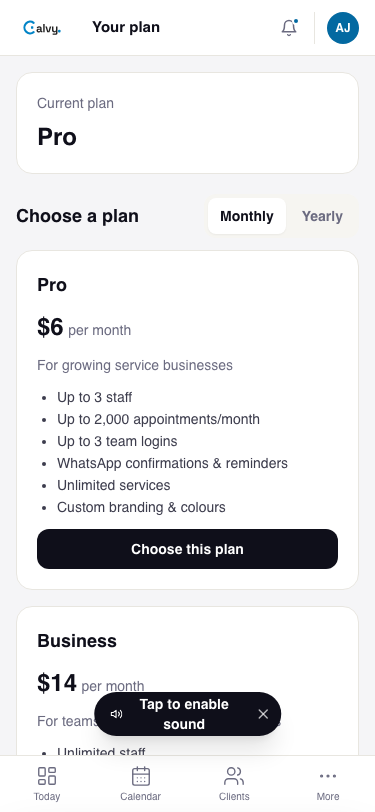
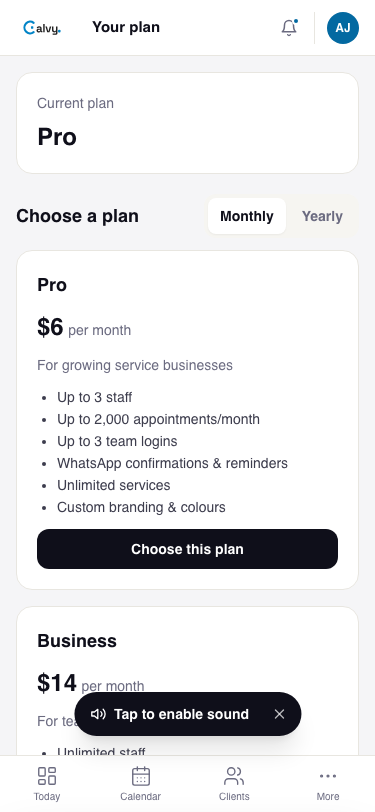
Step 36c: shell spec in the CI smoke job (375 + 1440, CI's own Postgres), test:shell for 4 widths, /admin/2fa phone check, chip one-line assertion

Changed region(s): [[0.176, 0.8313, 0.704, 0.9236], [0.704, 0.8313, 0.8213, 0.9236]]

diff --git a/tests/e2e/shell.spec.ts b/tests/e2e/shell.spec.ts
@@ -16,7 +16,8 @@ import { signInAsFixtureAdmin } from "./helpers/admin";
 // The minted admin cookie must never end up in an artefact: no trace (it records requests and cookies), no video, no automatic screenshots.
 test.use({ trace: "off", video: "off", screenshot: "off" });
 
-const WIDTHS = [375, 768, 1024, 1440] as const;
+// CI runs the quick subset (375 and 1440). `npm run test:shell` sets SHELL_FULL=1 for all four widths.
+const WIDTHS: readonly number[] = process.env.SHELL_FULL === "1" ? [375, 768, 1024, 1440] : [375, 1440];
 const ADMIN_ROUTES = [
   "/admin", "/admin/businesses", "/admin/businesses/new", "/admin/plans", "/admin/revenue", "/admin/billing", "/admin/offers", "/admin/coupons", "/admin/customers",
   "/admin/referrals", "/admin/rewards", "/admin/notifications", "/admin/notifications/log", "/admin/whatsapp-review", "/admin/blog", "/admin/support", "/admin/audit", "/admin/settings",
@@ -90,6 +91,37 @@ test("admin: the minted session cookie alone gets nobody in; the live admin-sess
   });
 });
 
+test("admin: /admin/2fa (its own layout) fits a phone and its code input is usable", async ({ page, context, baseURL }) => {
+  await withAdminFixture(async (fixture: AdminFixture) => {
+    await signInAsFixtureAdmin(context, baseURL ?? "http://localhost:3000", fixture);
+    await fixture.markEnrolled(); // an enrolled admin sees the "enter your code" form (the real day-to-day screen)
+    await fixture.endSession();   // cookies without a live row: the app shows the authenticator page
+    await page.setViewportSize({ width: 375, height: 667 });
+    await page.goto("/admin/2fa", { waitUntil: "load" });
+    const field = page.locator("#totp");
+    await expect(field).toBeVisible();
+    const m = await page.evaluate(() => ({ vw: innerWidth, sw: document.documentElement.scrollWidth, bw: document.body.scrollWidth }));
+    expect(m.sw, "2fa page scrolls sideways").toBeLessThanOrEqual(m.vw + 1);
+    expect(m.bw).toBeLessThanOrEqual(m.vw + 1);
+    await expect(page.locator("h1")).toBeVisible();
+    const submit = page.getByRole("button", { name: /^(Sign in|Start setup|Confirm and sign in)$/ });
+    await expect(submit).toBeVisible();
+    const box = await submit.boundingBox();
+    expect(box && box.height >= 40, "submit button is a phone-sized target").toBe(true);
+    expect(box && box.x >= 0 && box.x + box.width <= m.vw, "submit button inside the viewport").toBe(true);
+    {
+      await expect(field).toHaveAttribute("inputmode", "numeric");
+      await expect(field).toHaveAttribute("autocomplete", "one-time-code");
+      const fb = await field.boundingBox();
+      expect(fb && fb.height >= 40, "code input is a phone-sized target").toBe(true);
+      expect(fb && fb.x >= 0 && fb.x + fb.width <= m.vw, "code input inside the viewport").toBe(true);
+      await field.fill("123456");
+      await expect(field).toHaveValue("123456");
+    }
+    if (SHOTS) await page.screenshot({ path: "docs/audit/step-36c/admin_2fa-375.png" });
+  });
+});
+
 test("admin: the menu is a drawer under 1024px (backdrop, Escape, focus kept inside and returned)", async ({ page, context, baseURL }) => {
   await withAdminFixture(async (fixture: AdminFixture) => {
     await signInAsFixtureAdmin(context, baseURL ?? "http://localhost:3000", fixture);
@@ -144,6 +176,8 @@ test("dashboard: the sound chip clears the bottom tabs, is dismissible per devic
   const chipBox = (await chip.boundingBox())!;
   const nav = (await page.locator('nav[aria-label], nav').filter({ hasText: "Today" }).last().boundingBox())!;
   expect(chipBox.y + chipBox.height, "the chip overlaps the bottom tabs").toBeLessThanOrEqual(nav.y + 1);
+  expect(chipBox.height, "the chip text wraps onto a second line").toBeLessThanOrEqual(52);
+  if (SHOTS) await page.screenshot({ path: "docs/audit/step-36c/dashboard-sound-chip-375.png" });
   expect(chipBox.x).toBeGreaterThanOrEqual(0);
   expect(chipBox.x + chipBox.width).toBeLessThanOrEqual(375);
   await page.getByTestId("dismiss-sound-chip").click();

diff --git a/scripts/e2e-admin-fixture.ts b/scripts/e2e-admin-fixture.ts
@@ -56,6 +56,8 @@ export interface AdminFixture {
   adminToken: string;
   /** Delete the admin session row only (the user stays): what an expired or revoked session looks like to the app. For the "no row, no access" test. */
   endSession: () => Promise<void>;
+  /** Show the "enter your code" form on /admin/2fa (as for an enrolled admin) without any real authenticator: a random placeholder secret nobody can use to pass a code check from outside. The user row is deleted with the fixture. */
+  markEnrolled: () => Promise<void>;
   wipe: () => Promise<{ users: number; sessions: number; auditLeft: number }>;
 }
 
@@ -71,7 +73,8 @@ export async function createAdminFixture(prisma: PrismaClient): Promise<AdminFix
   // The session is cut off after 15 minutes whatever happens (a stuck run included).
   const timer = setTimeout(() => { void wipeAdminFixture(prisma).catch(() => undefined); }, MAX_SESSION_MS);
   timer.unref?.();
-  return { userId: user.id, adminToken, endSession: async () => { await prisma.adminSession.deleteMany({ where: { userId: user.id } }); }, wipe: async () => { clearTimeout(timer); return wipeAdminFixture(prisma); } };
+  const markEnrolled = async () => { await prisma.user.update({ where: { id: user.id }, data: { adminTotpSecret: randomBytes(20).toString("hex"), adminTotpEnabledAt: new Date() } }); };
+  return { userId: user.id, adminToken, markEnrolled, endSession: async () => { await prisma.adminSession.deleteMany({ where: { userId: user.id } }); }, wipe: async () => { clearTimeout(timer); return wipeAdminFixture(prisma); } };
 }
 
 /** Run `fn` with a fixture admin and ALWAYS remove it afterwards. */

diff --git a/docs/audit/step-36c/README.md b/docs/audit/step-36c/README.md
@@ -51,3 +51,11 @@ The chip's no-wrap tweak (one line instead of two on a 375px phone) was made aft
 ## Cleanup proof (after the final admin run)
 `e2e-admin@calvy.test`: users = 0, audit rows = 0, and 0 admin sessions belong to a user that no longer exists. `npm run e2e:admin-fixture:wipe` afterwards reports 0 users, 0 sessions, 0 audit rows.
 The admin audit log is append-only (database triggers refuse update and delete), so the fixture never deletes from it; it only checks that the run wrote none, and fails the run if it did.
+
+## Final verification (before ship)
+
+- Full spec on the final commit (`npm run test:shell`, 4 widths): all 6 tests pass (admin routes, cookie-without-row, `/admin/2fa` at 375px, drawer, dashboard routes, sound chip + sidebar mark).
+- Sound chip re-photographed at 375px (`dashboard-sound-chip-375.png`): one line, clear of the bottom tabs; the spec now fails if it wraps.
+- `/admin/2fa` at 375px (`admin_2fa-375.png`): no horizontal scroll, numeric code input and Sign in button are full-width phone-sized targets.
+- CI: `shell.spec.ts` is part of `test:e2e:smoke` and runs the quick subset (375 + 1440) against CI's own Postgres; `npm run test:shell` runs all four widths locally.
+- Cleanup: users=0, audit rows=0, sessions wiped=0.
